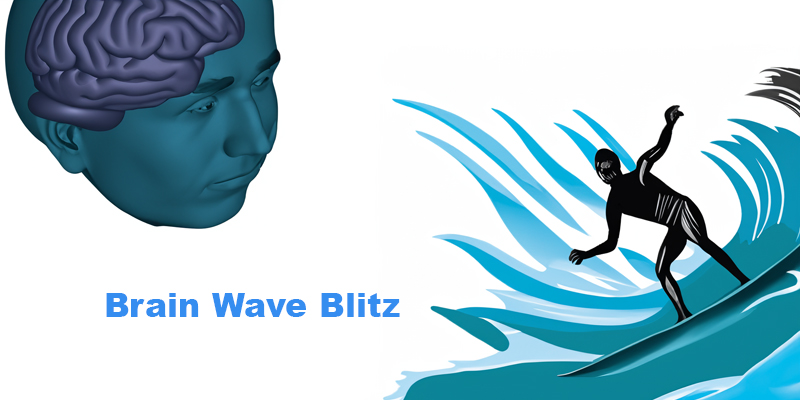
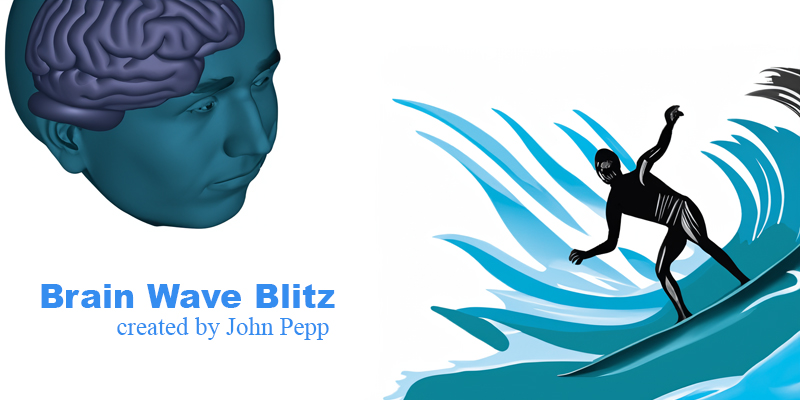
Improved graphic and css

Changed region(s): [[0.0312, 0.69, 0.5, 0.87]]

diff --git a/assets/js/brainwaveblitz.js b/assets/js/brainwaveblitz.js
@@ -49,17 +49,7 @@ nextButton.addEventListener("click", () => {
 
 });
 
-// Function to handle the event when an answer is selected.
-const pickAnswer = (answerIndex) => {
-    return () => {
-        choice = answerIndex;
-        checkAnswer();
-        // Only show the next button if the next question exists
-        if (index < triviaData.length - 1) {
-            nextButton.style.display = "block"; // show the next button after an answer is chosen
-        }
-    };
-};
+
 
 
 const retrieveCorrectAnswer = (id) => {
@@ -101,6 +91,17 @@ const checkAnswerAgainstTable = (data) => {
     }
 };
 
+// Function to handle the event when an answer is selected.
+const pickAnswer = (answerIndex) => {
+    return () => {
+        choice = answerIndex;
+        checkAnswer();
+        // Only show the next button if the next question exists
+        if (index < triviaData.length - 1) {
+            nextButton.style.display = "block"; // show the next button after an answer is chosen
+        }
+    };
+};
 
 // The `startGame` function takes an object as an argument with properties: ans1, ans2, ans3, ans4, id, question.
 // These properties represent the answers to the current question, the question's id, and the question itself, respectively.

diff --git a/assets/css/brainwaveblitz.css b/assets/css/brainwaveblitz.css
@@ -250,6 +250,29 @@ table {
     font-weight: bold;
 }
 
+.image-header {
+    /* Centers the image if the .image-header div is bigger than the image. */
+    display: flex;
+    justify-content: center;
+    align-items: center;
+
+    /* Box Shadow: horizontal offset, vertical offset, blur radius, spread radius, color. */
+    box-shadow: 0px 4px 8px 2px rgba(0, 0, 0, 0.2); /* Customize this as needed. */
+    transition: transform 0.3s ease-in-out; /* For a smooth scaling effect when hovered. */
+}
+
+.image-header img {
+    /* Makes the image responsive. The image will take up 100% of its container's width and adjust its height to maintain its aspect ratio. */
+    width: 100%;
+    height: auto;
+    object-fit: cover; /* Ensures that the aspect ratio of the image is preserved. */
+}
+
+.image-header:hover {
+    /* Scales up the div and its image when hovered. */
+    transform: scale(1.05);
+}
+
 /* Media Query for Mobile Screens */
 @media screen and (max-width: 30em) {
     .image-header img {
